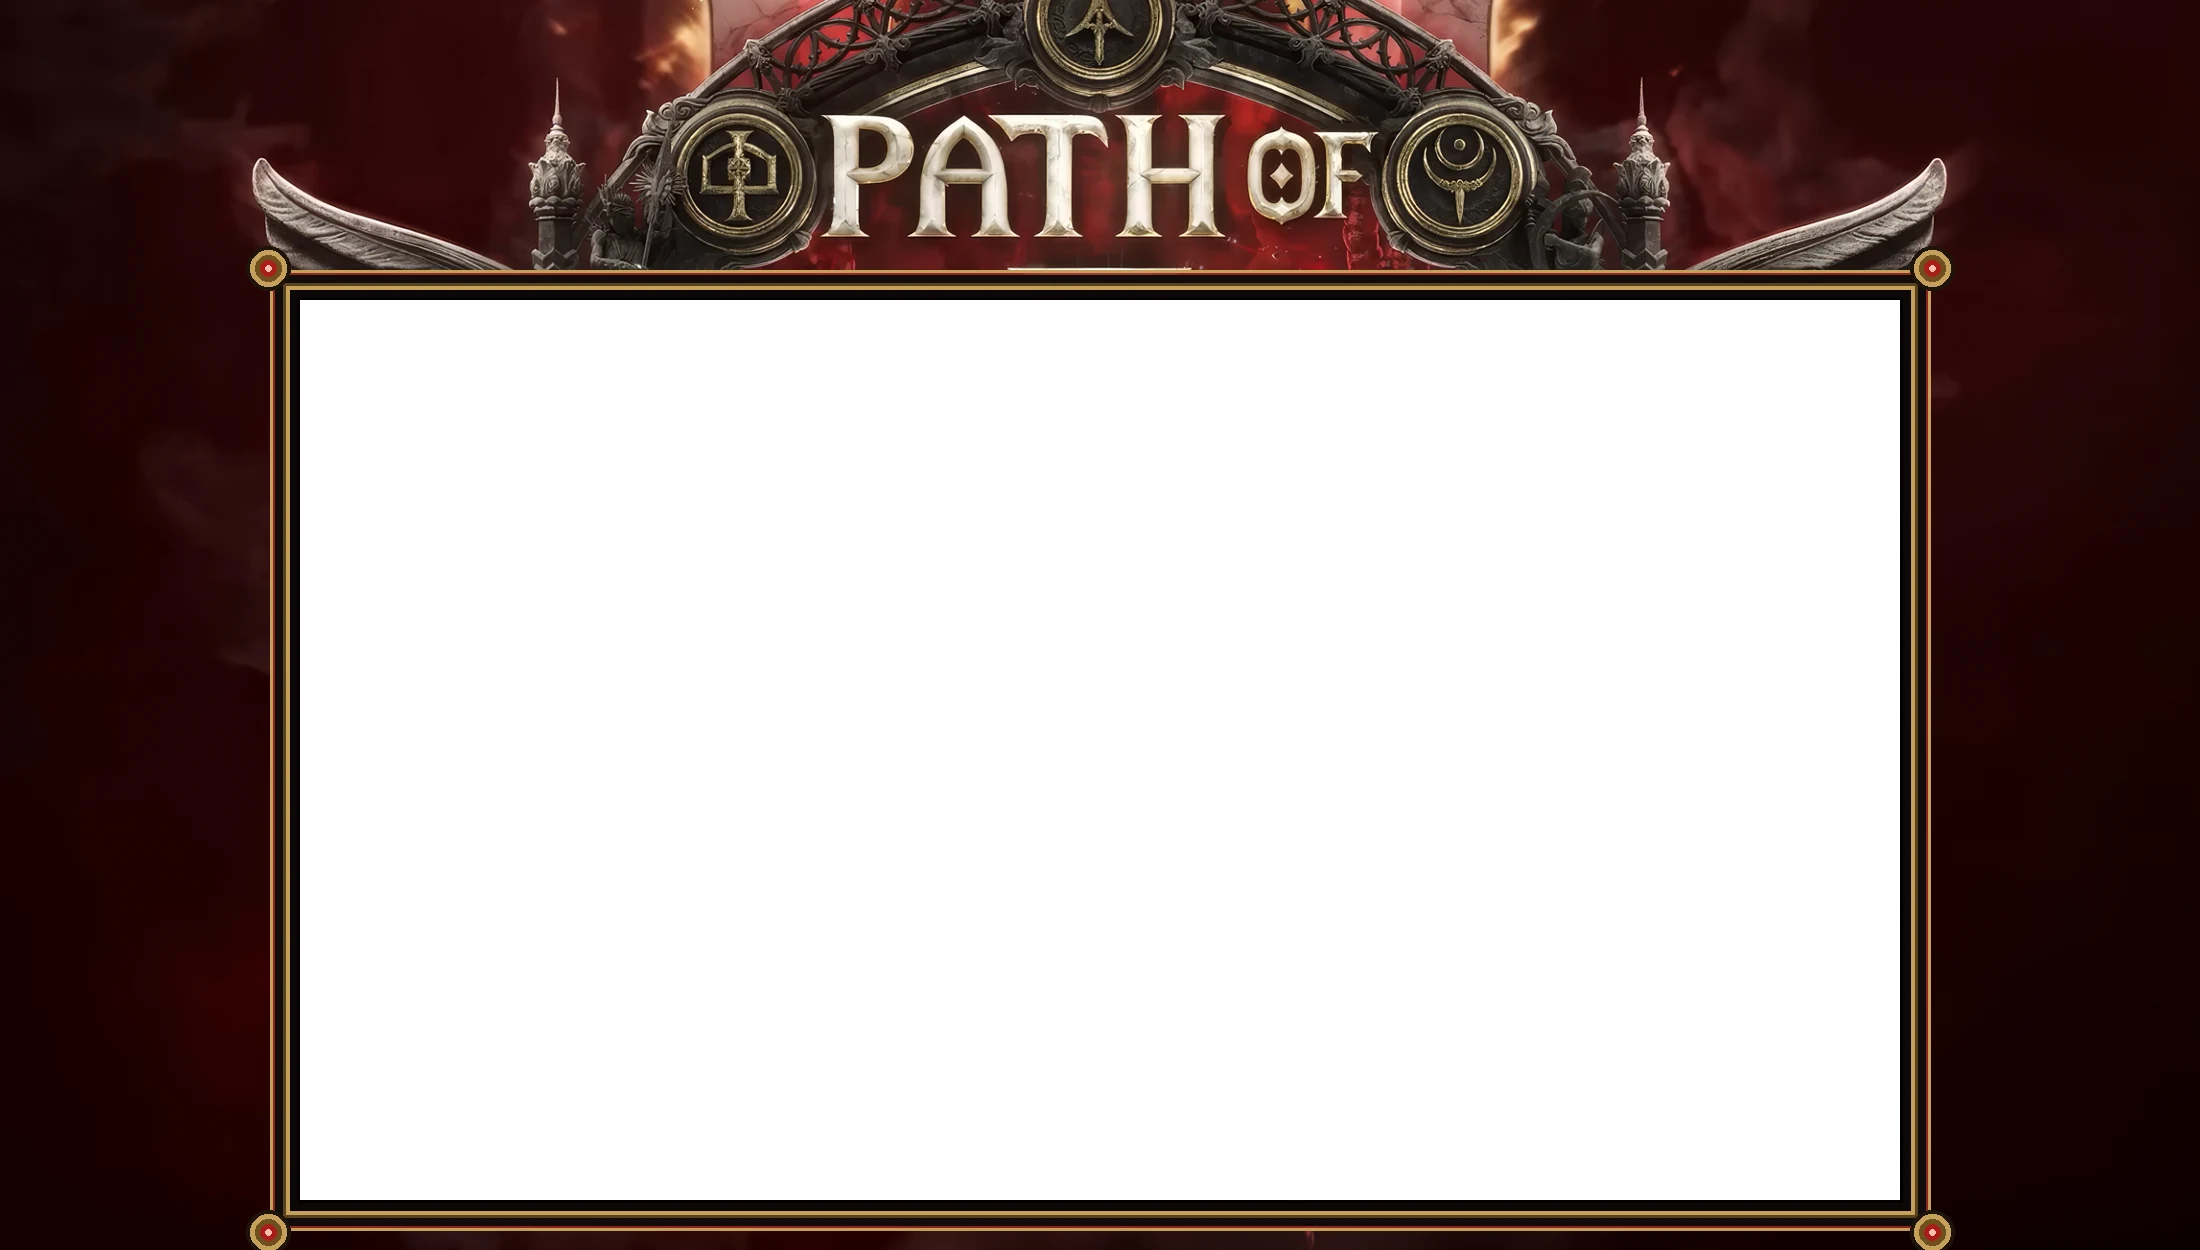
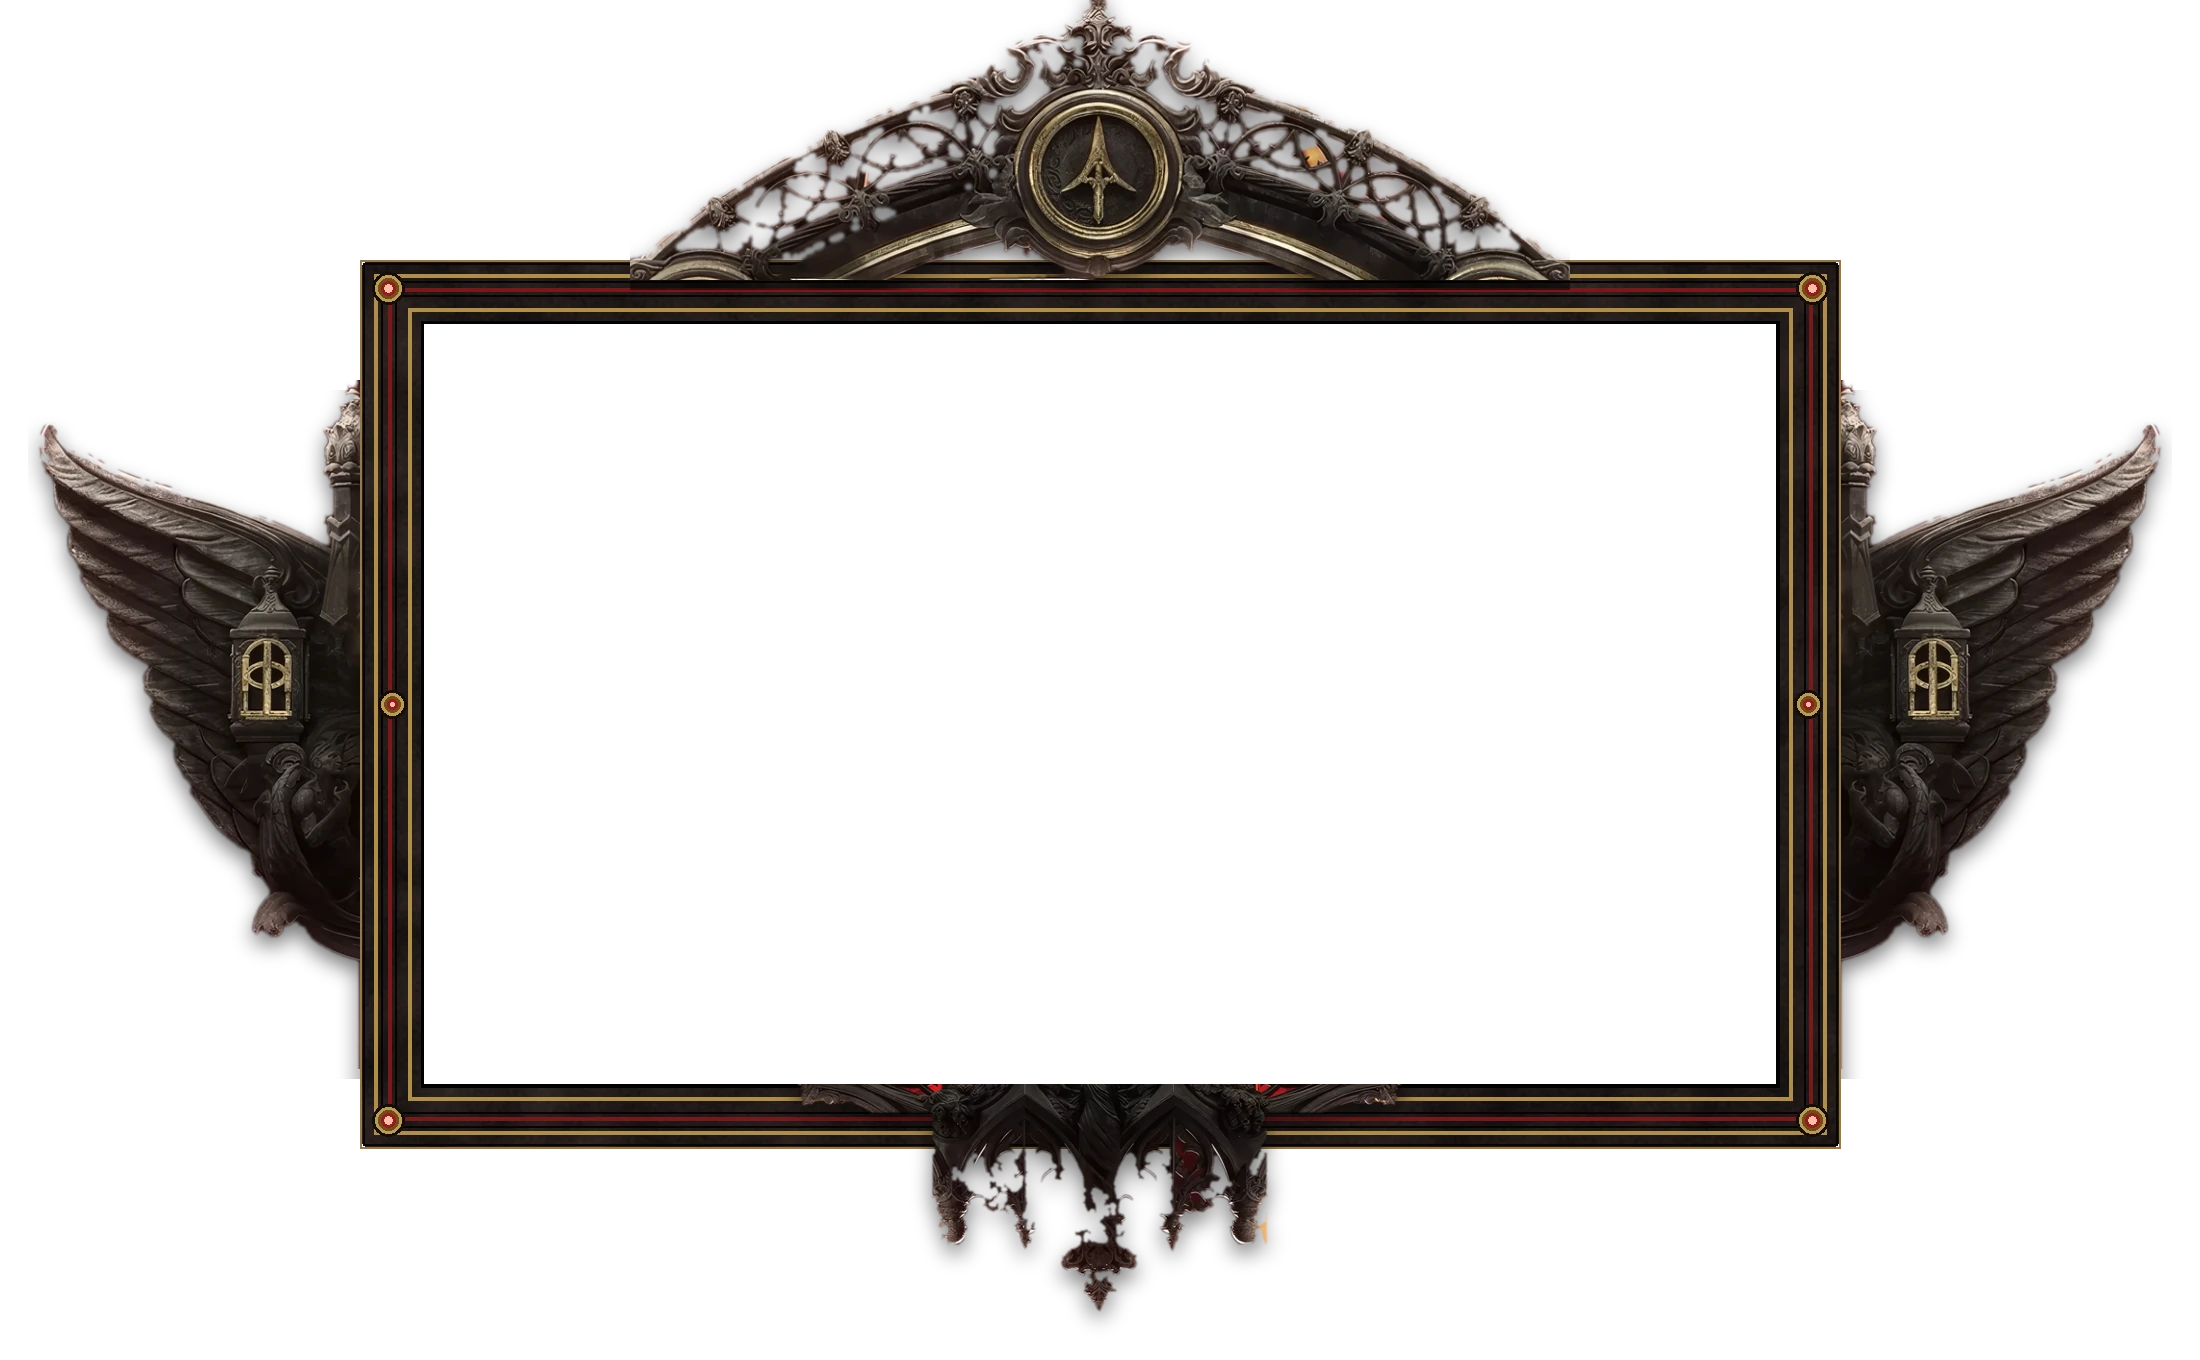
feat: PoE2 stream frame built from cut-out key-art ornaments (crown, wings, pendant) on a metal bezel

diff --git a/client/src/components/streamFrames.tsx b/client/src/components/streamFrames.tsx
@@ -13,6 +13,8 @@ export interface StreamFrameDef {
   screen: { l: number; t: number; w: number; h: number };
   /** Retro TV keeps scanlines/vignette over the glass; others just get a soft glare. */
   crt?: boolean;
+  /** Canvas height in units (width is always 1100); defaults to 625. */
+  height?: number;
   Art: () => ReactNode;
 }
 
@@ -518,7 +520,13 @@ export const STREAM_FRAMES: StreamFrameDef[] = [
   { id: "neon", name: "Неоново стъкло", screen: rect(NEON_SCREEN.x, NEON_SCREEN.y, NEON_SCREEN.w, NEON_SCREEN.h), Art: NeonArt },
   { id: "monster", name: "Синьо космато чудовище", screen: rect(MONSTER_SCREEN.x, MONSTER_SCREEN.y, MONSTER_SCREEN.w, MONSTER_SCREEN.h), Art: MonsterArt },
   { id: "exile", name: "Тъмна фантазия", screen: rect(EXILE_SCREEN.x, EXILE_SCREEN.y, EXILE_SCREEN.w, EXILE_SCREEN.h), Art: ExileArt },
-  { id: "poe2", name: "Path of Exile 2", screen: rect(150, 150, 800, 450), Art: Poe2Art },
+  {
+    id: "poe2",
+    name: "Path of Exile 2",
+    height: 680,
+    screen: { l: (212 / 1100) * 100, t: (162 / 680) * 100, w: (676 / 1100) * 100, h: (380 / 680) * 100 },
+    Art: Poe2Art,
+  },
 ];
 
 export const DEFAULT_FRAME_ID = "retro";

diff --git a/client/src/components/StreamFrame.tsx b/client/src/components/StreamFrame.tsx
@@ -17,7 +17,14 @@ export default function StreamFrame({ children, caption, onStop }: Props) {
   const { l, t, w, h } = frame.screen;
 
   return (
-    <div className={`tv stream-frame frame-${frame.id}`}>
+    <div
+      className={`tv stream-frame frame-${frame.id}`}
+      style={
+        frame.height
+          ? { aspectRatio: `1100 / ${frame.height}`, width: `min(100%, 1100px, calc(76vh * 1100 / ${frame.height}))` }
+          : undefined
+      }
+    >
       <div
         className={`tv-screen ${frame.crt ? "crt" : ""}`}
         style={{ left: `${l}%`, top: `${t}%`, width: `${w}%`, height: `${h}%` }}

diff --git a/client/src/components/UserSettingsModal.tsx b/client/src/components/UserSettingsModal.tsx
@@ -277,7 +277,7 @@ export default function UserSettingsModal({ onClose }: Props) {
               className={`stream-frame-option ${streamFrameId === f.id ? "selected" : ""}`}
               onClick={() => setStreamFrameId(f.id)}
             >
-              <div className="tv">
+              <div className="tv" style={f.height ? { aspectRatio: `1100 / ${f.height}` } : undefined}>
                 <div
                   className="tv-screen"
                   style={{ left: `${f.screen.l}%`, top: `${f.screen.t}%`, width: `${f.screen.w}%`, height: `${f.screen.h}%` }}

diff --git a/client/src/index.css b/client/src/index.css
@@ -2270,4 +2270,5 @@ input[type="range"] {
 .stream-frame-option.selected .tv {
   outline-color: var(--accent);
 }
-.frame-poe2 .tv-caption { bottom: 0.6%; font-size: 10px; }
+.frame-poe2 .tv-caption { display: none; }
+.frame-poe2 { filter: drop-shadow(0 14px 22px rgba(0, 0, 0, 0.55)); }
